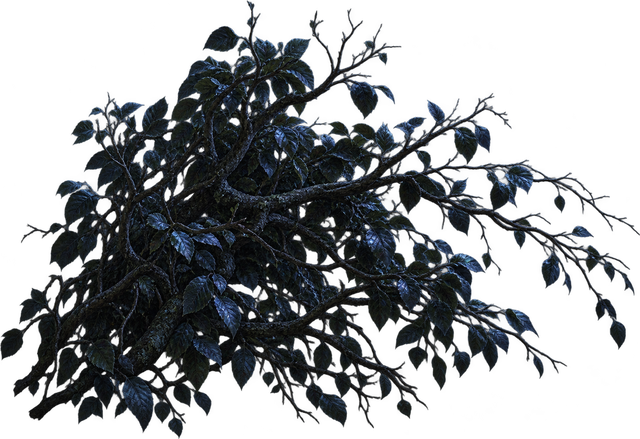
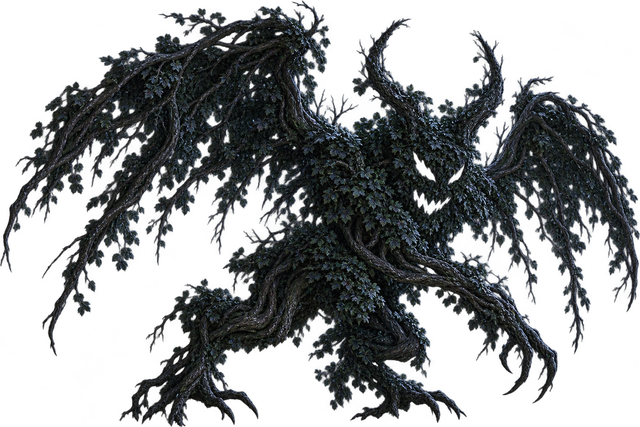
敵素材: 夜の葉・枝を悪魔のシルエットが読める版へ再生成

diff --git a/docs/monsters.md b/docs/monsters.md
@@ -77,7 +77,7 @@
 | M106 | 大音量のバイク | 交通と騒音 | 未定 | 未定 | 未定 | 未定 | 仕様のみ（運転者は描かない） | 同上 |
 | M107 | 大型立体看板のお神輿型 | 都市の巨大物 | 香林坊 | 未定 | 未定 | 中ボス | 仕様のみ | 同上 |
 | M108 | 蓋の開いたマンホール | 暗い開口部 | 未定 | 未定 | 未定 | 未定 | 仕様のみ | 同上 |
-| M109 | 夜の森の葉・枝（悪魔に見える） | 錯視 | 夜の森（章は未定） | 未定 | 未定 | 未定 | 生成済み: assets/enemies/night-branches.png（採否待ち） | #12 |
+| M109 | 夜の森の葉・枝（悪魔に見える） | 錯視 | 夜の森（章は未定） | 未定 | 未定 | 未定 | 生成済み: assets/enemies/night-branches.png（悪魔のシルエットが読める版へ再生成済み・採否待ち） | #12 |
 | M110 | 顔に見える壁の染み | 錯視 | 未定 | 未定 | 未定 | 未定 | 生成済み: assets/enemies/wall-stain.png（採否待ち） | #12 |
 | M111 | 防火シャッター | 展示物・玩具（環境敵） | 香林坊の閉店後の商店街 | 未定 | 未定 | 環境敵（背景と連動して戦場を狭める画面ギミック） | 仕様のみ（スプライトを持たない） | #12 |
 | M112 | マネキン | 展示物・玩具 | 香林坊のショーウィンドウ | 未定 | 未定 | 未定 | 仕様のみ | #12 |
